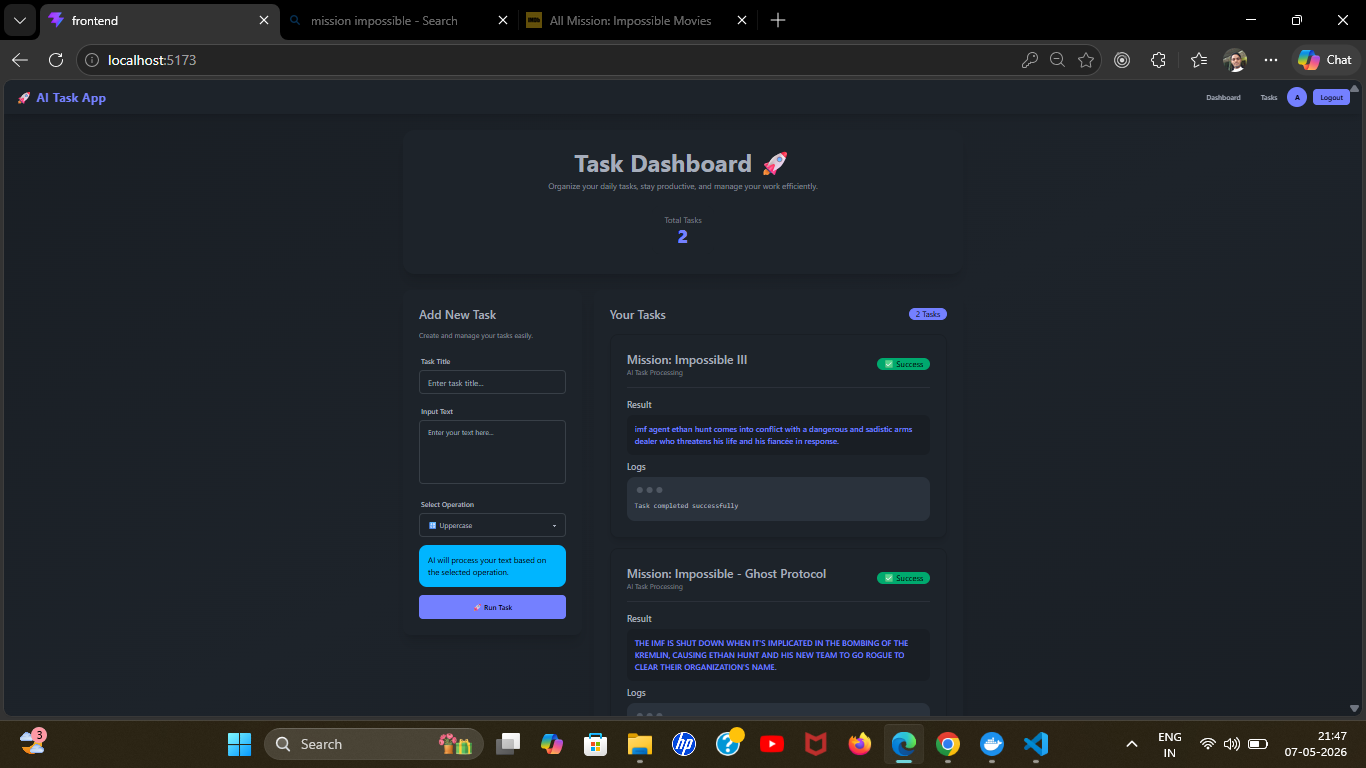
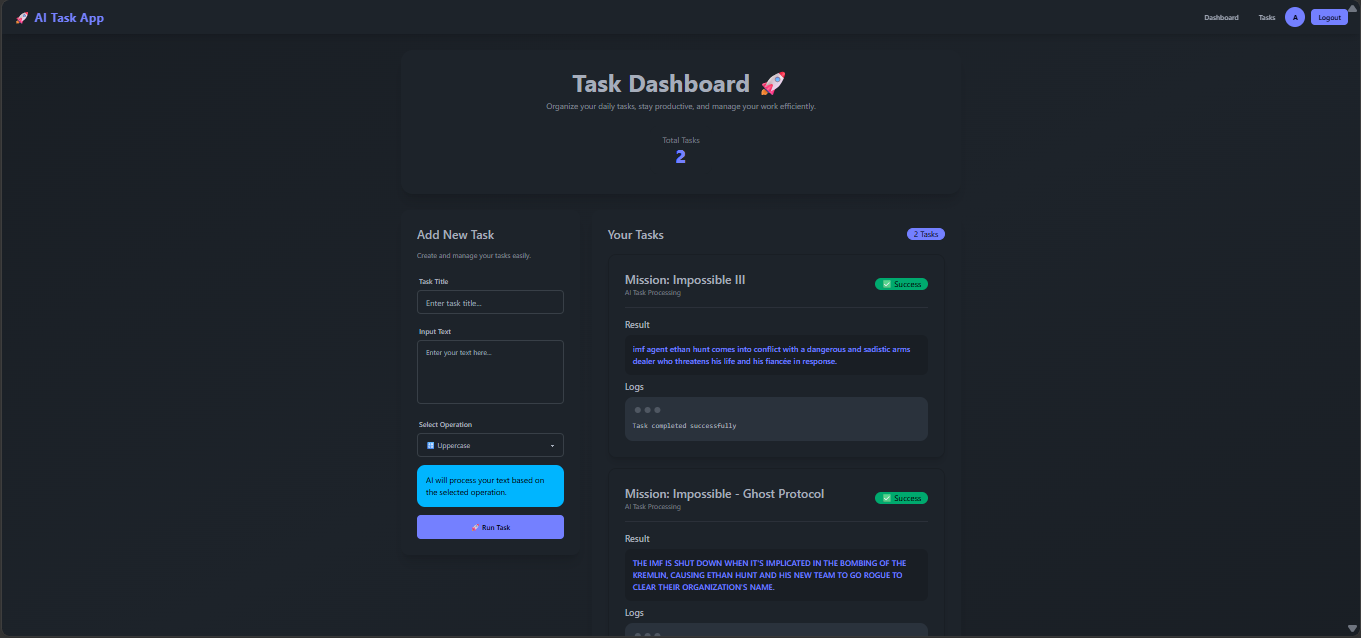
updated README file

diff --git a/README.MD b/README.MD
@@ -2,7 +2,7 @@
 
 A full-stack AI Task Processing application that allows users to create tasks, process them asynchronously, and track results in real time.
 
----
+
 
 ## 📌 Features
 
@@ -12,8 +12,8 @@ A full-stack AI Task Processing application that allows users to create tasks, p
 - 📊 Task Status Tracking (pending, running, success, failed)
 - 📜 View Task Logs & Results
 - 🔁 Background processing using Redis queue
+ 
 
----
 
 ## 🛠 Tech Stack
 
@@ -40,11 +40,11 @@ A full-stack AI Task Processing application that allows users to create tasks, p
 - Docker
 - Docker Compose
 
----
+
 
 ## 📁 Project Structure
 
-
+```
 ai-task-app/
 │── backend/
 │── frontend/
@@ -52,9 +52,7 @@ ai-task-app/
 │── docker-compose.yml
 │── .gitignore
 │── README.md
-
-
----
+```
 
 ## ⚙ Environment Variables
 
@@ -72,28 +70,32 @@ MONGO_URI=your_mongodb_url
 REDIS_URL=your_redis_url
 
 
----
+
 
 ## 🚀 Local Setup (Docker)
 
 ### 1. Clone the repository
 
-```bash
+```
 git clone https://github.com/ansarialiakbar/AI_Task_App.git
 cd ai-task-app
 ```
 
-2. Run using Docker
+### 2. Run using Docker
 
+```
 docker-compose up --build
+```
 
-3. Access the app
+### 3. Access the app
 
+```
 Frontend → http://localhost:5173
 
 Backend → http://localhost:5000
+```
 
-🧪 Running Without Docker (Optional)
+### 🧪 Running Without Docker (Optional)
 
 Start MongoDB & Redis first
 
@@ -118,7 +120,6 @@ cd worker
 pip install -r requirements.txt
 python -m app.worker
 ```
-
 
 
 ##  Screenshots
